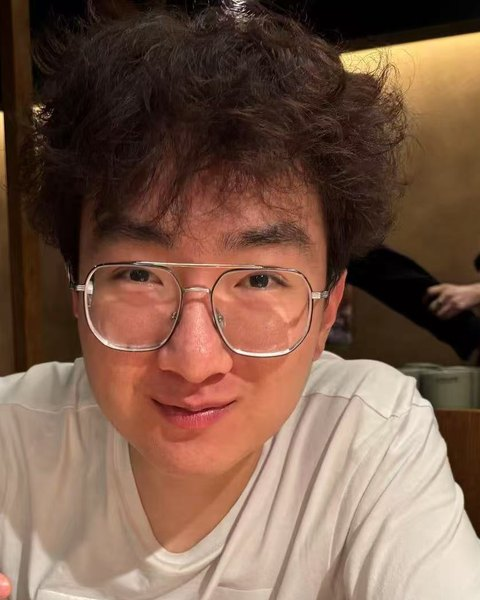
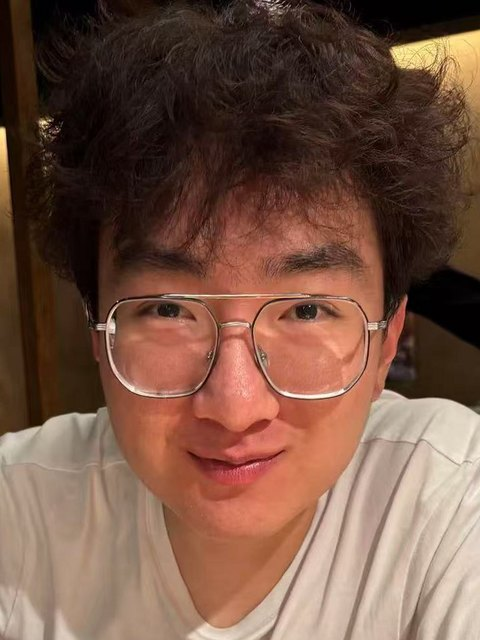
Homepage: recompose intro, recrop portrait, condense question index

diff --git a/styles.css b/styles.css
@@ -77,42 +77,44 @@ nav a:hover { color: var(--accent); text-decoration: underline; }
   :root:not([data-theme="light"]) .theme-toggle .moon { display: none; }
 }
 
-/* Opening spread: identity on the left, the argument on the right. */
-.intro { display: grid; grid-template-columns: 488px minmax(0, 1fr); gap: 44px; padding-block: 52px 40px; }
-.identity { display: flex; align-items: flex-start; gap: 28px; }
-.identity-text { flex: 1 1 0; min-width: 0; }
-.portrait { display: block; flex: 0 0 172px; width: 172px; height: auto; aspect-ratio: 4 / 5; object-fit: cover; margin-top: 6px; border-radius: 6px; border: 1px solid var(--rule); background: var(--surface); }
-h1 { font: 400 3rem/1.1 var(--serif); letter-spacing: -0.03em; margin-bottom: 14px; }
-.affiliation { font-size: 0.9375rem; line-height: 1.6; }
-.detail { margin-top: 8px; font-size: 0.875rem; line-height: 1.6; color: var(--muted); }
-.applying { display: inline-block; margin-block: 14px 14px; padding: 3px 10px; border: 1px solid var(--accent); border-radius: 999px; color: var(--accent); font-size: 0.8125rem; font-weight: 600; letter-spacing: 0.01em; }
-.email { display: block; font-size: 0.9375rem; overflow-wrap: anywhere; }
-.profile-links { display: flex; align-items: center; flex-wrap: wrap; gap: 18px; margin-top: 12px; font-size: 0.875rem; }
+/* Opening block, set on the same rail-and-column grid as the sections below.
+   The portrait fills the rail and spans exactly from the name to the links; the argument follows with its label in the rail. */
+.intro { padding-block: 48px 46px; }
+.identity { display: grid; grid-template-columns: 200px minmax(0, 1fr); grid-template-rows: auto 1fr; grid-template-areas: "portrait head" "portrait more"; column-gap: 48px; min-height: 250px; scroll-margin-top: 24px; }
+.portrait-frame { grid-area: portrait; position: relative; overflow: hidden; border-radius: 6px; border: 1px solid var(--rule); background: var(--surface); }
+.portrait { position: absolute; inset: 0; display: block; width: 100%; height: 100%; object-fit: cover; object-position: 50% 0; }
+.identity-head { grid-area: head; }
+.identity-more { grid-area: more; display: flex; flex-direction: column; align-items: flex-start; }
+h1 { font: 400 3.25rem/1.05 var(--serif); letter-spacing: -0.03em; margin-top: -0.16em; margin-bottom: 14px; }
+.affiliation { font-size: 1.0625rem; line-height: 1.5; }
+.affiliation strong, .detail span { white-space: nowrap; }
+.detail { margin-top: 5px; font-size: 0.9375rem; line-height: 1.6; color: var(--muted); }
+.identity-more .detail { margin-top: 2px; }
+.applying { display: inline-block; margin-block: 16px 14px; padding: 3px 11px; border: 1px solid var(--accent); border-radius: 999px; color: var(--accent); font-size: 0.8125rem; font-weight: 600; letter-spacing: 0.01em; }
+.profile-links { display: flex; align-items: center; flex-wrap: wrap; gap: 0 22px; margin-top: auto; font-size: 0.9375rem; }
 .profile-links a { display: inline-flex; align-items: center; gap: 5px; min-height: 44px; }
-.profile-links .cv-link { padding-inline: 13px; gap: 8px; border-radius: 3px; background: var(--accent); color: var(--button-text); text-decoration: none; }
+.profile-links .cv-link { padding-inline: 14px; gap: 8px; border-radius: 3px; background: var(--accent); color: var(--button-text); text-decoration: none; }
 .profile-links .cv-link:hover { background: var(--accent-hover); }
+.profile-links .email { overflow-wrap: anywhere; }
 .file-type { font-size: 0.6875rem; letter-spacing: 0.03em; }
 .eyebrow { font-size: 0.75rem; line-height: 1.5; font-weight: 600; letter-spacing: 0.08em; text-transform: uppercase; color: var(--muted); }
-.thesis { padding-top: 4px; }
-.thesis-statement { font: 400 2.125rem/1.25 var(--serif); letter-spacing: -0.02em; margin-block: 12px 18px; text-wrap: pretty; }
+.thesis { display: grid; grid-template-columns: 200px minmax(0, 1fr); column-gap: 48px; align-items: baseline; margin-top: 46px; }
+.thesis-statement { font: 400 2.125rem/1.22 var(--serif); letter-spacing: -0.02em; margin-bottom: 16px; text-wrap: pretty; }
+.nowrap { white-space: nowrap; }
 .thesis-statement em { color: var(--accent); }
-.thesis > p:not(.eyebrow):not(.thesis-statement) { max-width: 62ch; font-size: 1.0625rem; line-height: 1.7; }
-.thesis > p + p:not(.thesis-statement) { margin-top: 12px; }
+.thesis-body > p:not(.thesis-statement) { max-width: 63.5ch; font-size: 1.0625rem; line-height: 1.7; }
 
-/* Five questions in two rows (three, then two), each card pointing to its paper. */
-.questions { padding-block: 8px 48px; }
-.questions-heading { font: 600 0.8125rem/1.5 var(--sans); letter-spacing: 0.08em; text-transform: uppercase; color: var(--muted); margin-bottom: 14px; }
-.question-grid { list-style: none; margin: 0; padding: 0; display: grid; grid-template-columns: repeat(6, minmax(0, 1fr)); gap: 14px; }
-.question { grid-column: span 2; }
-.question:nth-child(n+4) { grid-column: span 3; }
-.question a { display: flex; flex-direction: column; gap: 10px; height: 100%; padding: 18px 18px 16px; border: 1px solid var(--rule); border-radius: 6px; background: var(--surface); color: var(--text); text-decoration: none; }
-.question a:hover { border-color: var(--accent); background: var(--accent-soft); color: var(--text); }
-.question-step { display: flex; align-items: center; gap: 8px; font-size: 0.75rem; font-weight: 600; letter-spacing: 0.06em; text-transform: uppercase; color: var(--accent); }
-.step-number { display: inline-grid; place-items: center; width: 22px; height: 22px; border-radius: 50%; background: var(--accent); color: var(--button-text); font-size: 0.75rem; font-weight: 600; letter-spacing: 0; font-variant-numeric: tabular-nums; }
-.question-text { font: 400 1.0625rem/1.4 var(--serif); text-wrap: pretty; }
-.question-paper { margin-top: auto; padding-top: 10px; border-top: 1px solid var(--rule); font-size: 0.8125rem; font-weight: 600; line-height: 1.5; }
-.question-paper .status { display: inline-block; margin-top: 4px; font-weight: 400; color: var(--muted); }
-.question a:hover .question-paper { text-decoration: underline; text-decoration-color: var(--accent); text-underline-offset: 0.2em; }
+/* Five questions as a quiet index on the same grid: label in the rail, question in the column, venue at the right edge. Each row points to its paper. */
+.questions { padding-block: 30px 30px; border-top: 1px solid var(--rule); }
+.questions-heading { margin: 0 0 14px; font: 600 0.75rem/1.5 var(--sans); letter-spacing: 0.08em; text-transform: uppercase; color: var(--muted); }
+.question-list { list-style: none; margin: 0; padding: 0; }
+.question a { position: relative; display: grid; grid-template-columns: 200px minmax(0, 1fr) auto; grid-template-areas: "step text venue"; column-gap: 48px; align-items: baseline; padding-block: 10px; color: var(--text); text-decoration: none; }
+.question + .question a::before { content: ""; position: absolute; top: 0; right: 0; left: 248px; border-top: 1px solid var(--rule); }
+.question-step { grid-area: step; font-size: 0.75rem; font-weight: 600; letter-spacing: 0.06em; text-transform: uppercase; color: var(--accent); }
+.question-text { grid-area: text; font: 400 1.0625rem/1.4 var(--serif); text-wrap: pretty; }
+.question-venue { grid-area: venue; font-size: 0.8125rem; line-height: 1.5; color: var(--muted); white-space: nowrap; text-align: right; }
+.question-venue--accepted { color: var(--accent); font-weight: 600; }
+.question a:hover .question-text { color: var(--accent); text-decoration: underline; text-decoration-thickness: 1px; text-underline-offset: 0.2em; }
 
 /* Section rail on the left, content on the right. */
 .section-grid { display: grid; grid-template-columns: 200px minmax(0, 1fr); gap: 48px; padding-block: 40px 48px; border-top: 1px solid var(--rule); }
@@ -182,31 +184,38 @@ footer p span { margin-inline: 6px; }
 footer a { display: inline-flex; gap: 8px; min-height: 44px; align-items: center; }
 
 @media (max-width: 1000px) {
-  .intro { grid-template-columns: minmax(0, 1fr); gap: 36px; }
-  .identity { gap: 28px; }
-  .portrait { flex-basis: 168px; width: 168px; }
-  h1 { font-size: 2.75rem; }
+  .identity, .thesis { grid-template-columns: 170px minmax(0, 1fr); column-gap: 32px; }
+  .identity { min-height: 213px; }
+  h1 { font-size: 3rem; }
   .thesis-statement { font-size: 1.875rem; }
-  .question-grid { grid-template-columns: repeat(2, minmax(0, 1fr)); }
-  .question, .question:nth-child(n+4) { grid-column: auto; }
-  .question:last-child { grid-column: 1 / -1; }
+  .question a { grid-template-columns: 170px minmax(0, 1fr); grid-template-areas: "step text" "venue text"; column-gap: 32px; }
+  .question + .question a::before { left: 202px; }
+  .question-venue { text-align: left; }
   .section-grid { grid-template-columns: 170px minmax(0, 1fr); gap: 32px; }
-  .profile-links { gap: 14px; }
+  .profile-links { column-gap: 18px; }
 }
 
 @media (max-width: 760px) {
   .page { max-width: 680px; padding-inline: 24px; }
   .site-header { min-height: 68px; }
   nav { gap: 14px; }
-  .intro { grid-template-columns: minmax(0, 1fr); gap: 28px; padding-block: 30px 28px; }
-  .identity { display: block; }
-  .portrait { float: right; width: 104px; margin: 4px 0 12px 16px; }
-  h1 { font-size: 2.5rem; margin-bottom: 12px; }
-  .profile-links { margin-top: 8px; gap: 20px; }
-  .thesis { padding-top: 0; }
+  .intro { padding-block: 28px 32px; }
+  .identity { grid-template-columns: 112px minmax(0, 1fr); grid-template-rows: auto auto; grid-template-areas: "portrait head" "more more"; align-items: center; column-gap: 20px; row-gap: 16px; min-height: 0; }
+  .portrait-frame { aspect-ratio: 3 / 4; }
+  h1 { font-size: 2.375rem; margin-top: 0; margin-bottom: 8px; }
+  .affiliation { font-size: 1rem; }
+  .detail { margin-top: 3px; font-size: 0.875rem; }
+  .identity-more .detail { margin-top: 0; }
+  .applying { margin-block: 12px 10px; }
+  .profile-links { margin-top: 0; column-gap: 20px; }
+  .thesis { display: block; margin-top: 26px; }
   .thesis-statement { font-size: 1.625rem; margin-block: 8px 12px; }
-  .thesis > p:not(.eyebrow):not(.thesis-statement) { font-size: 1rem; line-height: 1.7; }
-  .questions { padding-block: 4px 36px; }
+  .thesis-body > p:not(.thesis-statement) { font-size: 1rem; line-height: 1.7; }
+  .questions { padding-block: 26px 22px; }
+  .questions-heading { margin-bottom: 6px; }
+  .question a { grid-template-columns: minmax(0, 1fr) auto; grid-template-areas: "step venue" "text text"; column-gap: 16px; row-gap: 3px; padding-block: 12px; }
+  .question + .question a::before { left: 0; }
+  .question-venue { text-align: right; }
   .section-grid { grid-template-columns: minmax(0, 1fr); gap: 20px; padding-block: 30px 36px; }
   .section-heading { position: static; }
   .section-heading h2 { margin-block: 7px 9px; }
@@ -224,13 +233,13 @@ footer a { display: inline-flex; gap: 8px; min-height: 44px; align-items: center
 }
 
 @media (max-width: 520px) {
-  .portrait { width: 96px; margin-left: 14px; }
+  .identity { grid-template-columns: 100px minmax(0, 1fr); column-gap: 18px; }
+  h1 { font-size: 2.125rem; }
+  .affiliation { font-size: 0.9375rem; }
   .page { padding-inline: 20px; }
   .site-header { gap: 8px; }
   nav { gap: 10px; font-size: 0.8125rem; }
   .monogram { font-size: 1.375rem; }
-  .question-grid { grid-template-columns: minmax(0, 1fr); gap: 10px; }
-  .question a { padding: 14px 16px 12px; }
   .paper h3 { font-size: 1.125rem; }
   .timeline-entry { display: block; padding-left: 22px; padding-bottom: 28px; }
   .timeline-entry::before { left: 3px; }
@@ -242,10 +251,17 @@ footer a { display: inline-flex; gap: 8px; min-height: 44px; align-items: center
   footer { align-items: flex-start; }
 }
 
+/* On narrow phones the header keeps to one line; the contact details are already on the first screen. */
+@media (max-width: 400px) {
+  nav a[href="#contact"] { display: none; }
+}
+
 @media (max-width: 360px) {
   .page { padding-inline: 16px; }
   nav { gap: 8px; }
-  .profile-links { gap: 16px; }
+  .thesis-statement { font-size: 1.5rem; }
+  .identity { grid-template-columns: 92px minmax(0, 1fr); column-gap: 14px; }
+  .profile-links { column-gap: 16px; }
 }
 
 @media (prefers-reduced-motion: reduce) {
@@ -254,8 +270,7 @@ footer a { display: inline-flex; gap: 8px; min-height: 44px; align-items: center
 }
 
 @media (forced-colors: active) {
-  .profile-links .cv-link, .theme-toggle, .figure-link, .question a, .status, .applying { border: 1px solid ButtonText; }
-  .step-number { border: 1px solid ButtonText; }
+  .profile-links .cv-link, .theme-toggle, .figure-link, .portrait-frame, .status, .applying { border: 1px solid ButtonText; }
   :where(a, button):focus-visible { outline-color: Highlight; }
 }
 
@@ -266,21 +281,24 @@ footer a { display: inline-flex; gap: 8px; min-height: 44px; align-items: center
   body { background: #fff; line-height: 1.5; }
   .page { max-width: none; padding: 0; }
   .site-header, .skip-link, footer a, .paper-figure figcaption > a { display: none; }
-  .intro { grid-template-columns: 290px minmax(0, 1fr); gap: 24px; padding-block: 0 16px; }
-  .identity { gap: 14px; }
-  .portrait { flex-basis: 76px; width: 76px; margin-top: 2px; }
-  h1 { font-size: 26pt; }
-  .thesis-statement { font-size: 17pt; }
-  .thesis > p:not(.eyebrow):not(.thesis-statement) { font-size: 10pt; line-height: 1.5; }
-  .applying { border-color: #111; }
-  .profile-links { gap: 12px; margin-top: 8px; }
+  .intro { padding-block: 0 14px; }
+  .identity, .thesis { grid-template-columns: 112px minmax(0, 1fr); column-gap: 18px; }
+  .identity { grid-template-rows: auto 1fr; grid-template-areas: "portrait head" "portrait more"; align-items: stretch; min-height: 140px; }
+  .portrait-frame { aspect-ratio: auto; }
+  h1 { font-size: 26pt; margin-top: -0.16em; margin-bottom: 6px; }
+  .affiliation, .detail { font-size: 10pt; }
+  .thesis { display: grid; margin-top: 16px; }
+  .thesis-statement { font-size: 17pt; margin-block: 0 8px; }
+  .thesis-body > p:not(.thesis-statement) { font-size: 10pt; line-height: 1.5; }
+  .applying { margin-block: 8px 6px; border-color: #111; }
+  .profile-links { gap: 0 14px; margin-top: auto; font-size: 10pt; }
   .profile-links a, .profile-links .cv-link { min-height: 0; padding: 0; color: #111; background: transparent; }
-  .questions { padding-block: 0 16px; }
-  .question-grid { grid-template-columns: repeat(2, minmax(0, 1fr)); gap: 8px; }
-  .question, .question:nth-child(n+4) { grid-column: auto; }
-  .question:last-child { grid-column: 1 / -1; }
-  .question a { padding: 8px 10px; border-color: #ccc; }
-  .step-number { background: #111; }
+  .questions { padding-block: 12px 12px; break-inside: avoid; }
+  .questions-heading { margin-bottom: 6px; }
+  .question a { grid-template-columns: 112px minmax(0, 1fr) auto; grid-template-areas: "step text venue"; column-gap: 18px; row-gap: 0; padding-block: 4px; }
+  .question + .question a::before { left: 130px; }
+  .question-venue { text-align: right; }
+  .question-text { font-size: 10.5pt; }
   .section-grid { display: block; padding-block: 16px; }
   .section-heading { position: static; margin-bottom: 12px; break-after: avoid; }
   .section-heading h2 { margin-block: 5px; font-size: 18pt; }

diff --git a/index.html b/index.html
@@ -28,7 +28,7 @@
   <link rel="preconnect" href="https://fonts.googleapis.com">
   <link rel="preconnect" href="https://fonts.gstatic.com" crossorigin>
   <link rel="stylesheet" href="https://fonts.googleapis.com/css2?family=Source+Serif+4:ital,opsz,wght@0,8..60,400;0,8..60,600;1,8..60,400&display=swap">
-  <link rel="stylesheet" href="styles.css?v=20261126">
+  <link rel="stylesheet" href="styles.css?v=20261126b">
   <script src="theme.js?v=20261103"></script>
 </head>
 <body id="top">
@@ -51,71 +51,77 @@
 
     <main id="main" tabindex="-1">
 
-      <!-- Opening spread: who, where, and the one-sentence argument. -->
+      <!-- Opening block on the page grid: portrait in the rail, identity beside it, then the one-sentence argument. -->
       <section class="intro" aria-labelledby="name">
         <div class="identity" id="contact">
-          <img class="portrait" src="assets/yangze-liu.jpg" alt="Portrait of Yangze Liu" width="480" height="600" decoding="async">
-          <div class="identity-text">
-          <h1 id="name">Yangze Liu</h1>
-          <p class="affiliation">Full-time Research Assistant<br><strong>Shandong University</strong></p>
-          <p class="detail">Advised by Prof. Zhongyi Han</p>
-          <p class="detail">B.S. Computer Science + Philosophy<br>University of Illinois Urbana-Champaign, 2025</p>
-          <p class="applying">Applying to PhD programs for Fall 2027</p>
-          <a class="email" href="mailto:yangze.liu@outlook.com">yangze.liu@outlook.com</a>
-          <div class="profile-links">
-            <a class="cv-link" href="Yangze_Liu_CV.pdf">CV <span class="file-type">PDF</span> <span aria-hidden="true">↗</span></a>
-            <a href="https://github.com/YangzeLiu">GitHub <span aria-hidden="true">↗</span></a>
-            <a href="https://scholar.google.com/citations?user=J5UjM7EAAAAJ">Scholar <span aria-hidden="true">↗</span></a>
+          <div class="portrait-frame">
+            <img class="portrait" src="assets/yangze-liu.jpg" alt="Portrait of Yangze Liu" width="480" height="640" decoding="async">
           </div>
+          <div class="identity-head">
+            <h1 id="name">Yangze Liu</h1>
+            <p class="affiliation">Full-time Research Assistant, <strong>Shandong University</strong></p>
+            <p class="detail">Advised by Prof. Zhongyi Han</p>
+          </div>
+          <div class="identity-more">
+            <p class="detail"><span>B.S. Computer Science + Philosophy,</span> <span>University of Illinois Urbana-Champaign, 2025</span></p>
+            <p class="applying">Applying to PhD programs for Fall 2027</p>
+            <div class="profile-links">
+              <a class="cv-link" href="Yangze_Liu_CV.pdf">CV <span class="file-type">PDF</span> <span aria-hidden="true">↗</span></a>
+              <a href="https://github.com/YangzeLiu">GitHub <span aria-hidden="true">↗</span></a>
+              <a href="https://scholar.google.com/citations?user=J5UjM7EAAAAJ">Scholar <span aria-hidden="true">↗</span></a>
+              <a class="email" href="mailto:yangze.liu@outlook.com">yangze.liu@outlook.com</a>
+            </div>
           </div>
         </div>
 
         <div class="thesis">
           <p class="eyebrow">What I work on</p>
-          <p class="thesis-statement">When an agent’s score goes up, what actually <em>changed</em>?</p>
-          <p>A score can rise because the agent got better, or because of run-to-run noise and grading rules that have nothing to do with the agent. I use controlled experiments to tell these apart, then look for the mechanism behind the change that is real, so that we can build agents that act safely in real environments.</p>
+          <div class="thesis-body">
+            <p class="thesis-statement">When an agent’s score goes up, <span class="nowrap">what actually <em>changed</em>?</span></p>
+            <p>Sometimes the agent got better. Sometimes it is run-to-run noise, or a grading rule that has nothing to do with the agent. I run controlled experiments to find out which, and when the change is real I look for what caused it. The goal is to build agents that act safely in real environments.</p>
+          </div>
         </div>
       </section>
 
-      <!-- The five agent papers as five questions. Top row: is the measured change real. Bottom row: what drives the behavior. -->
+      <!-- The five agent papers as five questions, one row each, in the order of the paper list below. -->
       <section class="questions" aria-labelledby="questions-heading">
         <h2 id="questions-heading" class="questions-heading">Five questions, one line of work</h2>
-        <ol class="question-grid" role="list">
-            <li class="question">
-              <a href="#paper-harness">
-                <span class="question-step">Harness</span>
-                <span class="question-text">A new harness raises a coding agent’s pass rate. Is the gain any larger than rerunning the same setup?</span>
-                <span class="question-paper">What Does a Harness Buy? <span class="status">Under review, ICLR 2027</span></span>
-              </a>
-            </li>
-            <li class="question">
-              <a href="#paper-leaderboards">
-                <span class="question-step">Leaderboards</span>
-                <span class="question-text">One agent trails another by 13 points on a public leaderboard. Is the gap in the agent or in the grader?</span>
-                <span class="question-paper">Silent Instrument Errors <span class="status">arXiv preprint, 2026</span></span>
-              </a>
-            </li>
-            <li class="question">
-              <a href="#paper-openclawbench">
-                <span class="question-step">Process</span>
-                <span class="question-text">An agent passes its task. Did it act safely along the way?</span>
-                <span class="question-paper">OpenClawBench <span class="status status--accepted">NeurIPS 2026, poster</span></span>
-              </a>
-            </li>
-            <li class="question">
-              <a href="#paper-memory">
-                <span class="question-step">Memory</span>
-                <span class="question-text">An agent writes itself a memory from its own games. Does the useful knowledge in it come from the games, or from the model that wrote it?</span>
-                <span class="question-paper">Experience Is Not Knowledge <span class="status">Manuscript, 2026</span></span>
-              </a>
-            </li>
-            <li class="question">
-              <a href="#paper-asking">
-                <span class="question-step">Asking</span>
-                <span class="question-text">A one-line prompt raises an agent’s leaderboard score. Did its decisions get any better?</span>
-                <span class="question-paper">Asking Earns Nothing <span class="status">arXiv preprint, 2026</span></span>
-              </a>
-            </li>
+        <ol class="question-list" role="list">
+          <li class="question">
+            <a href="#paper-harness">
+              <span class="question-step">Harness</span>
+              <span class="question-text">Does a new harness move the pass rate more than a rerun?</span>
+              <span class="question-venue">Under review, ICLR 2027</span>
+            </a>
+          </li>
+          <li class="question">
+            <a href="#paper-leaderboards">
+              <span class="question-step">Leaderboards</span>
+              <span class="question-text">Is a leaderboard gap in the agent, or in the grader?</span>
+              <span class="question-venue">arXiv preprint, 2026</span>
+            </a>
+          </li>
+          <li class="question">
+            <a href="#paper-openclawbench">
+              <span class="question-step">Process</span>
+              <span class="question-text">An agent passes its task. Did it act safely along the way?</span>
+              <span class="question-venue question-venue--accepted">NeurIPS 2026, poster</span>
+            </a>
+          </li>
+          <li class="question">
+            <a href="#paper-memory">
+              <span class="question-step">Memory</span>
+              <span class="question-text">Where does the knowledge in an agent’s memory come from?</span>
+              <span class="question-venue">Manuscript, 2026</span>
+            </a>
+          </li>
+          <li class="question">
+            <a href="#paper-asking">
+              <span class="question-step">Asking</span>
+              <span class="question-text">Does a prompt that raises the score improve the decisions?</span>
+              <span class="question-venue">arXiv preprint, 2026</span>
+            </a>
+          </li>
         </ol>
       </section>
 
@@ -273,7 +279,7 @@
       </section>
     </main>
 
-    <footer><p>Yangze Liu <span aria-hidden="true">·</span> Updated <time datetime="2026-11-03">November 3, 2026</time></p><a href="#top">Back to top <span aria-hidden="true">↑</span></a></footer>
+    <footer><p>Yangze Liu <span aria-hidden="true">·</span> Updated <time datetime="2026-11-26">November 26, 2026</time></p><a href="#top">Back to top <span aria-hidden="true">↑</span></a></footer>
   </div>
 </body>
 </html>
